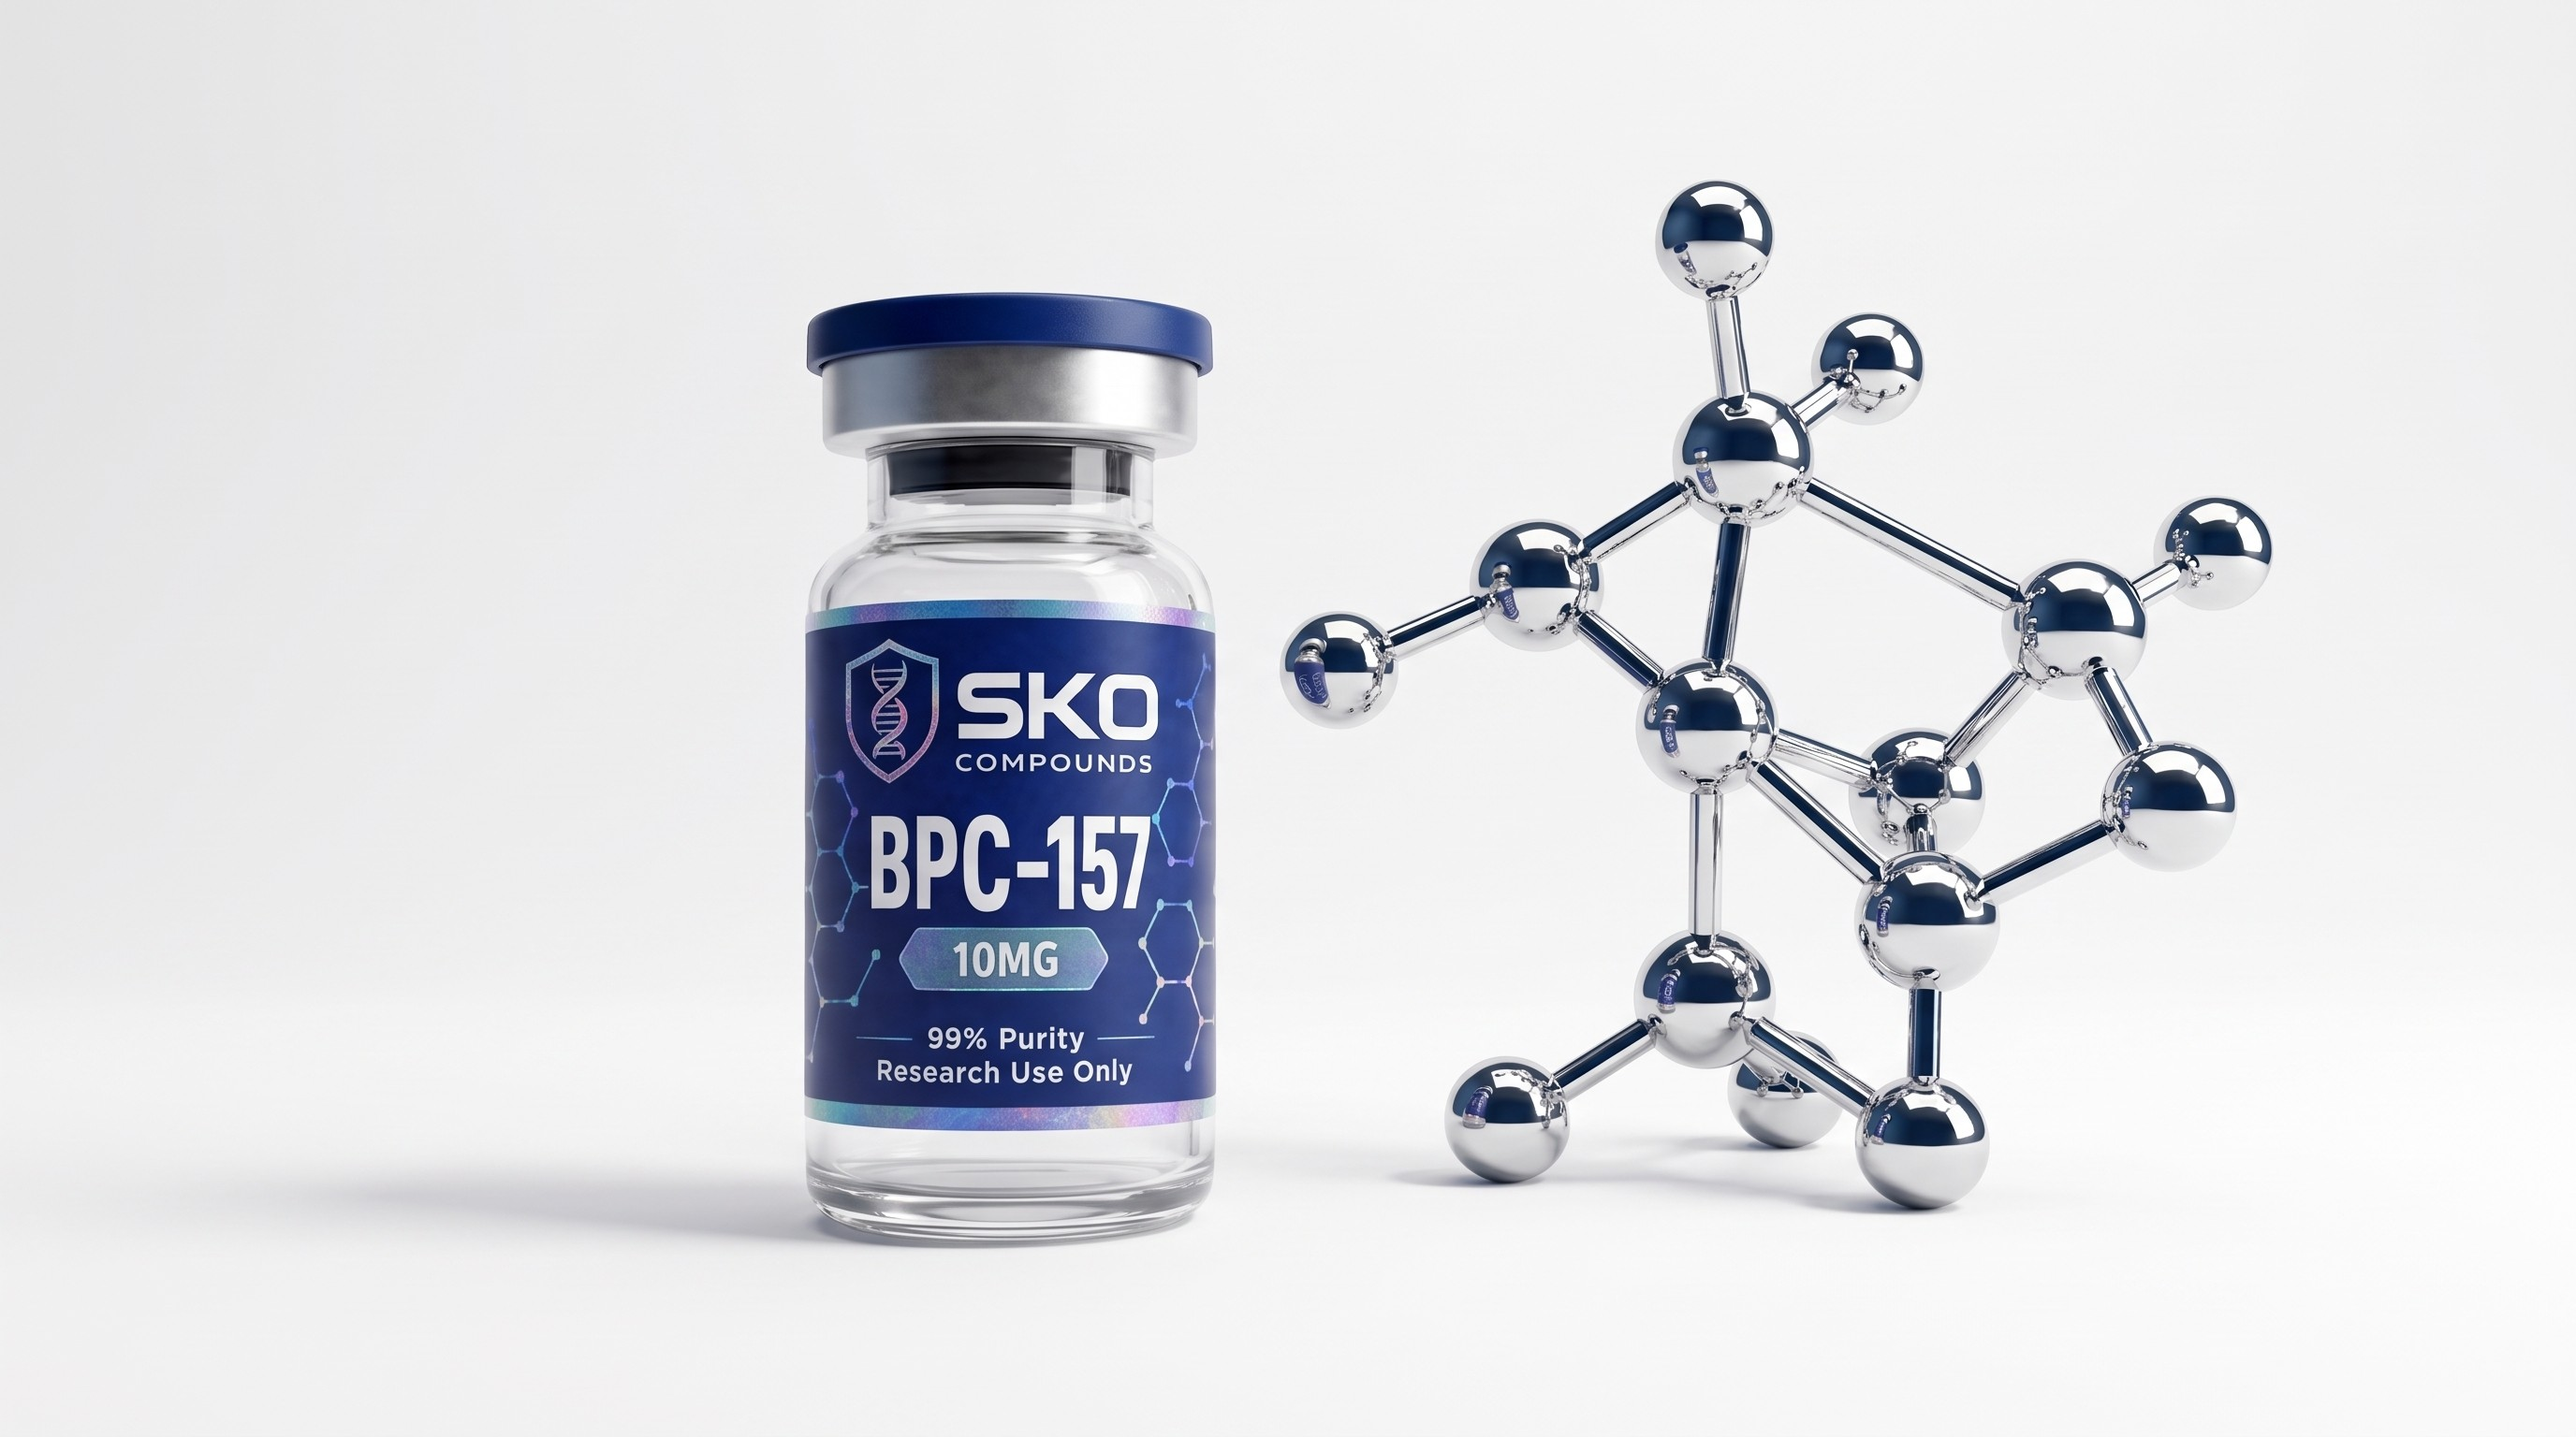
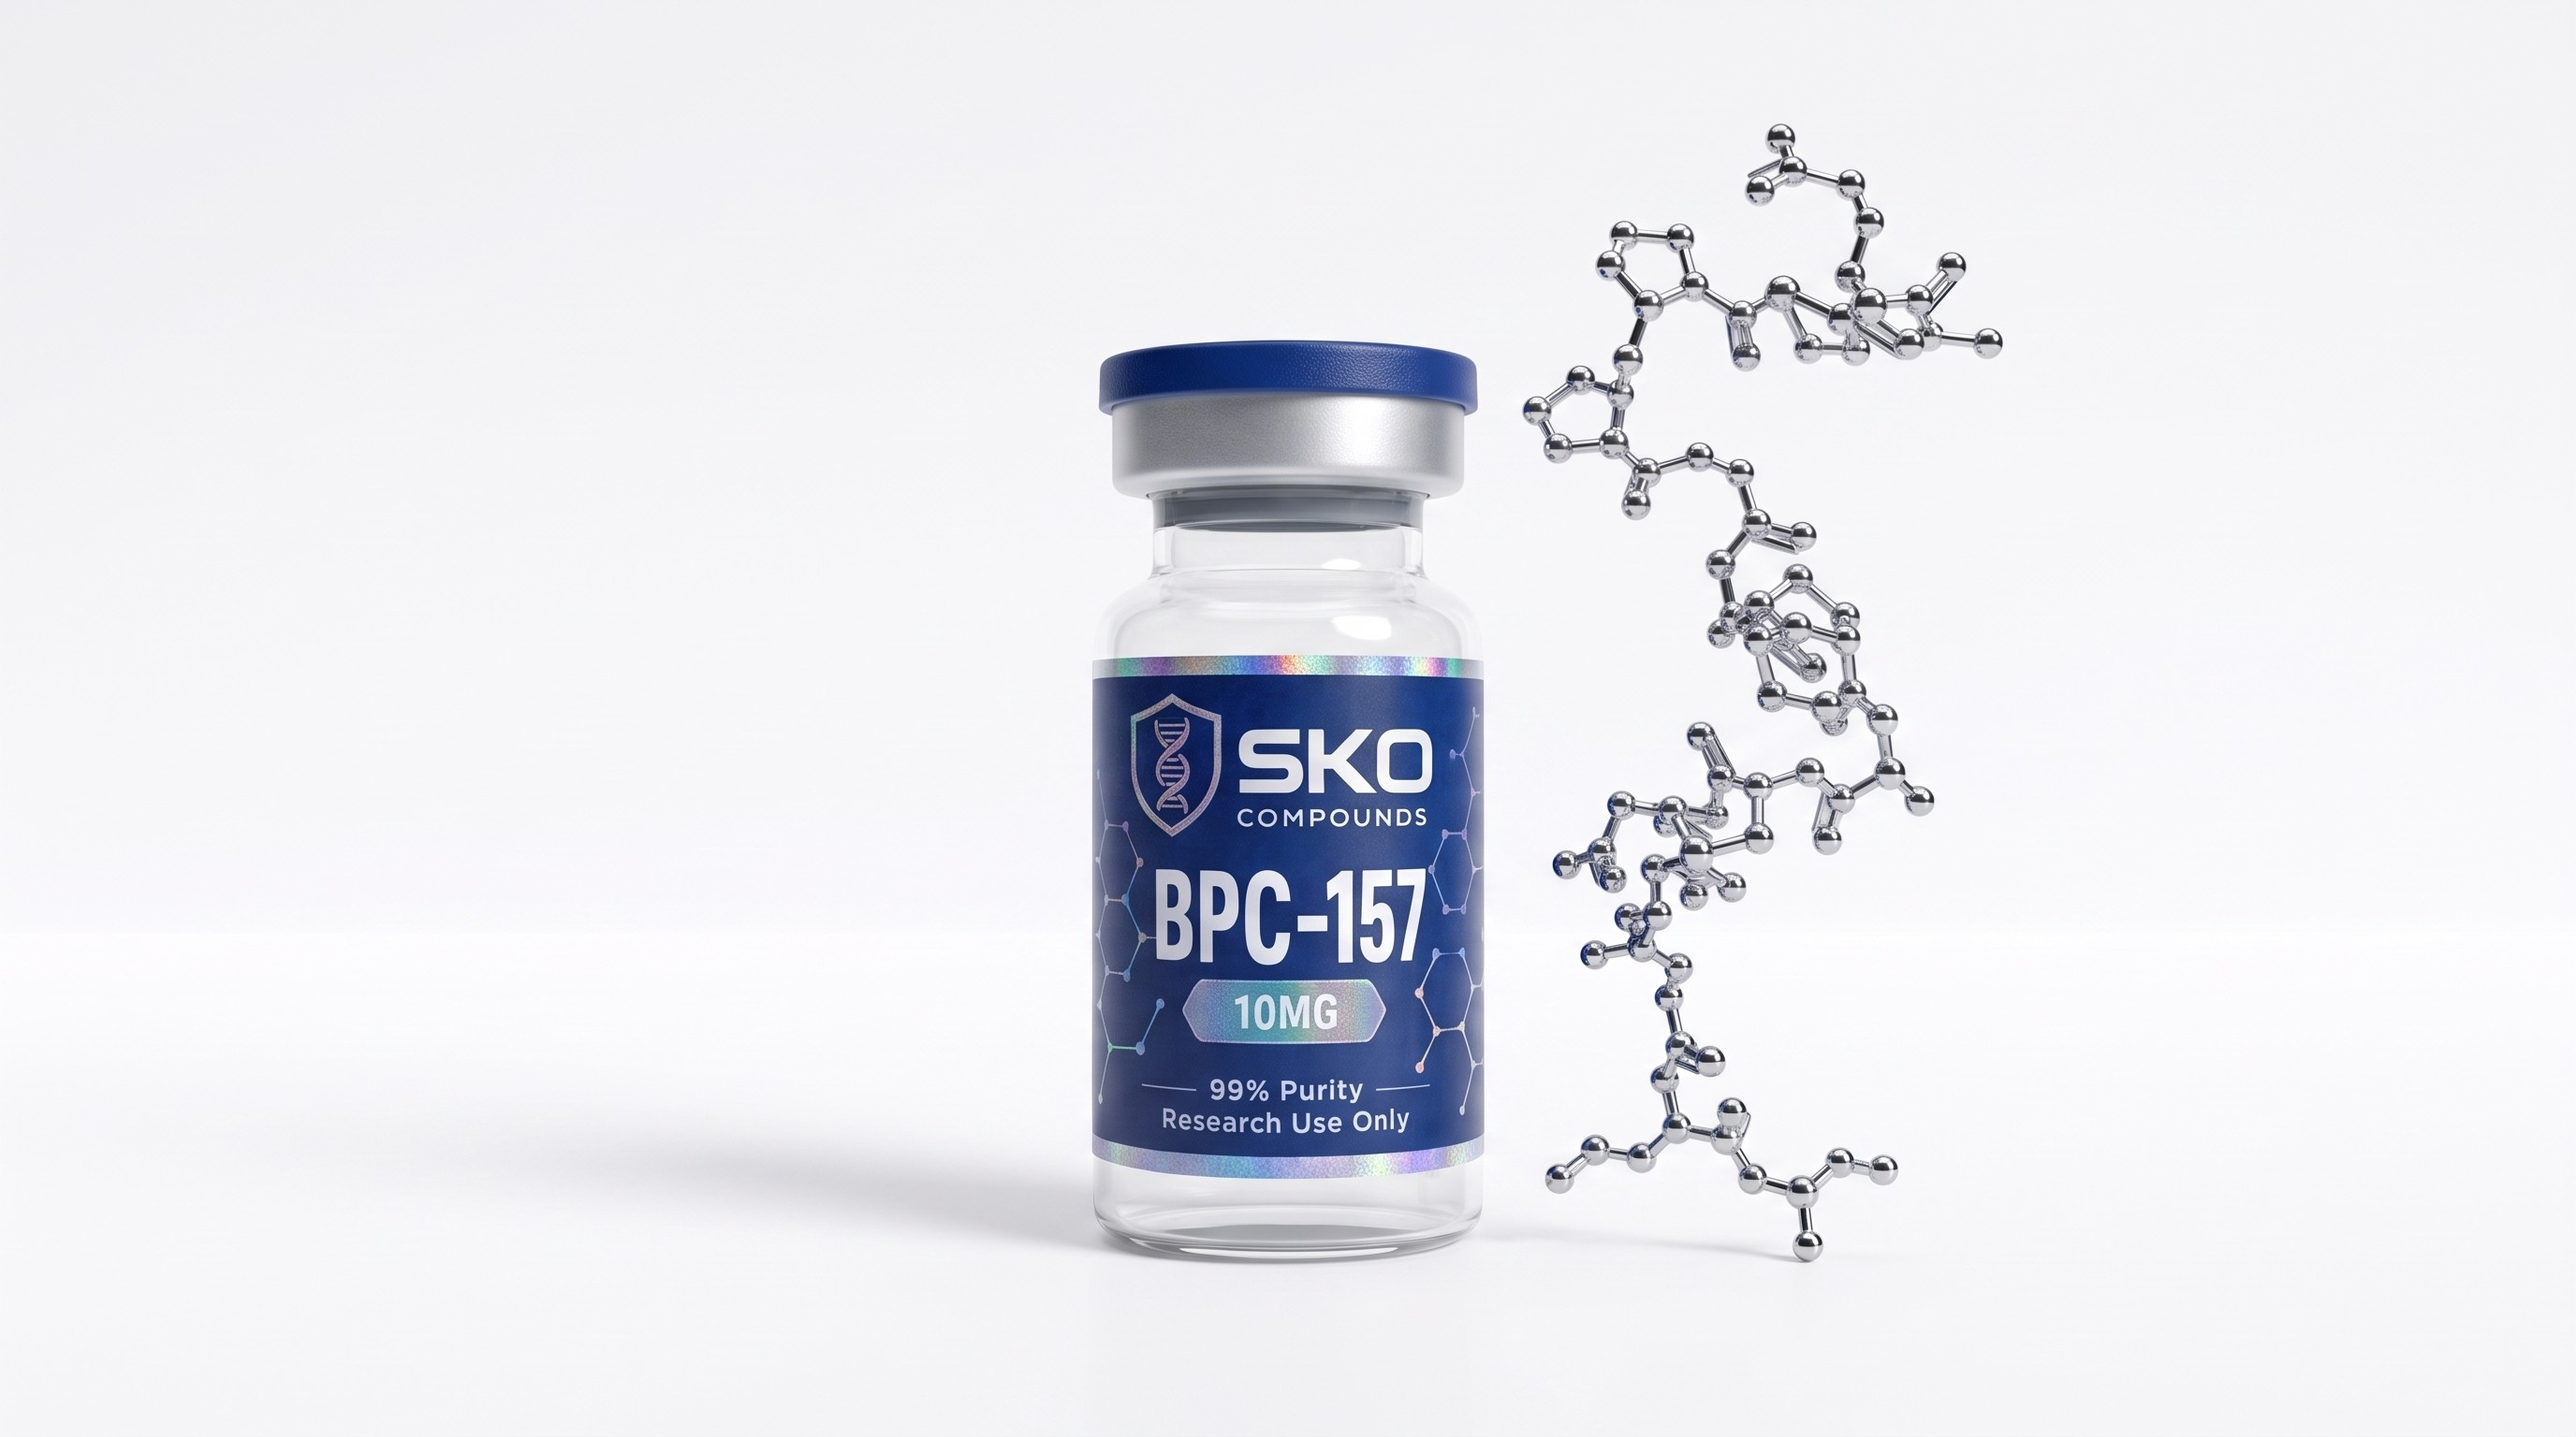
White studio / chrome: the Isometrica hero on white, on the site and the guide

Changed region(s): [[0.0938, 0.0938, 0.9062, 0.9062]]

diff --git a/index.html b/index.html
@@ -399,7 +399,7 @@ JetBrains Mono. Ink ground, Frost text. Data only. Never a headline.</div></div>
 <p><b>The blue comes with it.</b> On white, the chrome carries a trace of Pigment from off-frame, the pigment block under the vial is the one colour in the picture, and the label is the label. The vial stands on the pigment, never in it. That trace is what makes a white frame SKO and not a stock photo.</p>
 <p><b>The primary lives here.</b> Every SKU has a 1:1 on white, and that is the tile. The 1:1 on Pigment is the flip, the pop, the second frame; it is never the default.</p>
 <p class="mono note">White is never warm, never grey. #FFFFFF, lit flat.</p></div>
-  <div class="body"><div class="tiles" style="grid-template-columns:repeat(4,1fr);flex:none;height:clamp(200px,26vw,400px)"><a class="tile" style="background:#fff" href="img/edition3/white-vial.jpg" download><img class="fill" src="img/edition3/white-vial-w.jpg" alt="THE VIAL ON WHITE"><span class="cap">THE VIAL &middot; PRIMARY</span></a><a class="tile" style="background:#fff" href="img/edition3/white-cradle.jpg" download><img class="fill" src="img/edition3/white-cradle-w.jpg" alt="THE CRADLE ON WHITE"><span class="cap">THE CRADLE</span></a><a class="tile" style="background:#fff" href="img/edition3/white-badge.jpg" download><img class="fill" src="img/edition3/white-badge-w.jpg" alt="THE BADGE ON WHITE"><span class="cap">THE BADGE</span></a><a class="tile" style="background:#EFEEEC" href="img/edition3/rock.jpg" download><img class="fill" src="img/edition3/rock-w.jpg" alt="THE PIGMENT BLOCK"><span class="cap">THE PIGMENT BLOCK</span></a></div></div>
+  <div class="body"><div class="tiles" style="grid-template-columns:repeat(4,1fr);flex:none;height:clamp(200px,26vw,400px)"><a class="tile" style="background:#fff" href="img/edition3/hero-white-structure.jpg" download><img class="fill" src="img/edition3/hero-white-structure.jpg" alt="ISOMETRICA IN THE WHITE STUDIO"><span class="cap" style="color:#173384">WHITE STUDIO &middot; CHROME</span></a><a class="tile" style="background:#fff" href="img/edition3/white-vial.jpg" download><img class="fill" src="img/edition3/white-vial-w.jpg" alt="THE VIAL ON WHITE"><span class="cap">THE VIAL &middot; PRIMARY</span></a><a class="tile" style="background:#fff" href="img/edition3/white-cradle.jpg" download><img class="fill" src="img/edition3/white-cradle-w.jpg" alt="THE CRADLE ON WHITE"><span class="cap">THE CRADLE</span></a><a class="tile" style="background:#fff" href="img/edition3/white-badge.jpg" download><img class="fill" src="img/edition3/white-badge-w.jpg" alt="THE BADGE ON WHITE"><span class="cap">THE BADGE</span></a><a class="tile" style="background:#EFEEEC" href="img/edition3/rock.jpg" download><img class="fill" src="img/edition3/rock-w.jpg" alt="THE PIGMENT BLOCK"><span class="cap">THE PIGMENT BLOCK</span></a></div></div>
   <div class="foot"><span class="l"><img src="img/shield.png" alt="">SKO BRAND BOOK</span><span>WHITE</span></div>
 </div>
 
